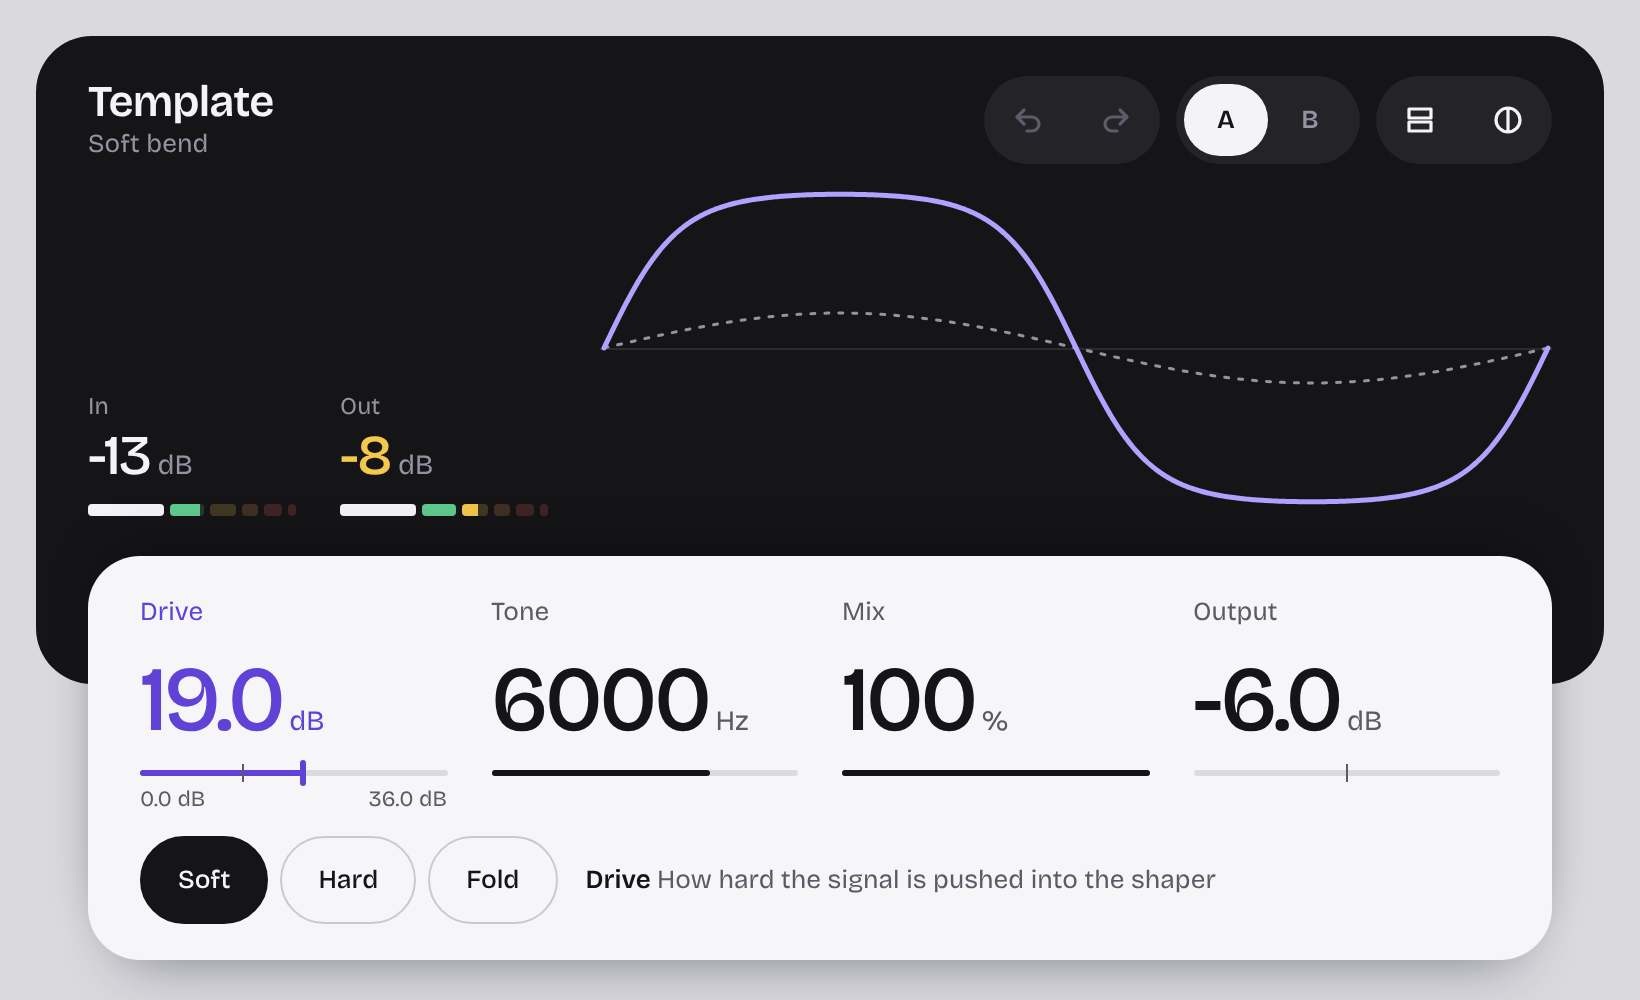
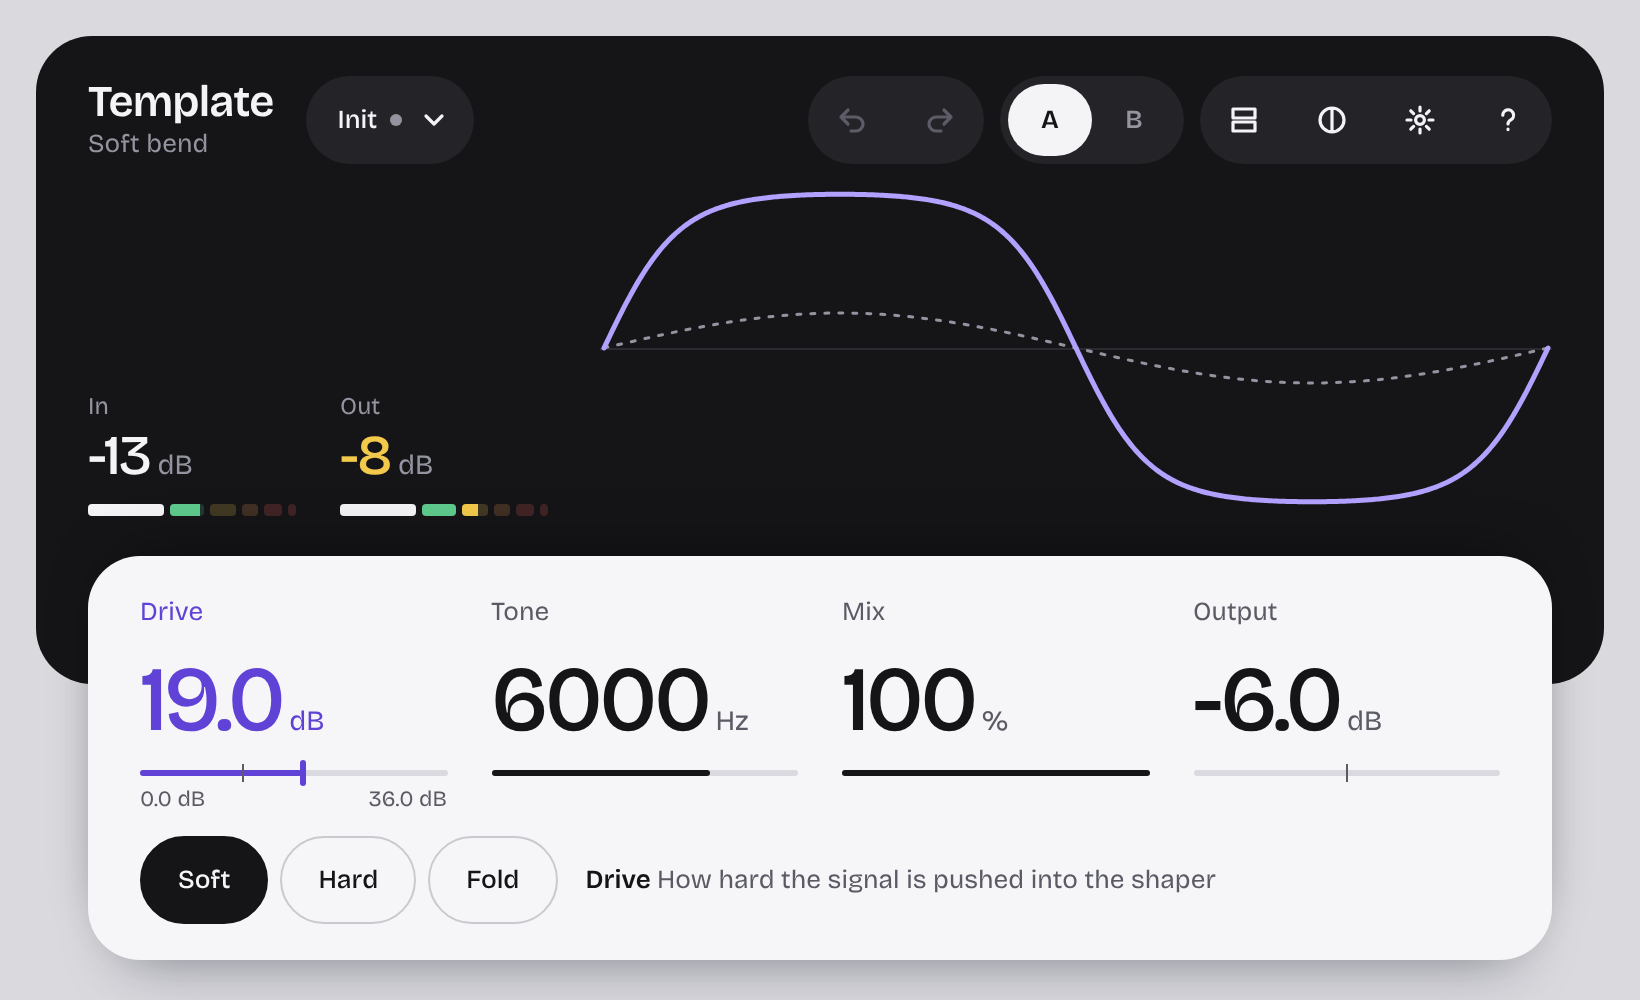
Template: its own presets, and its answer on the seven points
Claude-Session: https://claude.ai/code/session_01LsEv5JJ6sX3X7Qe9Tsco2Y

diff --git a/plugins/template/ui/main.js b/plugins/template/ui/main.js
@@ -61,6 +61,13 @@ const wave = (ui) => (pen) => {
   path(steps(480).map((t) => [2 + t * (width - 4), mid - out(sine(t)) * tall]))
 }
 
+// What it ships with: enough to show what the three bends are for.
+const PRESETS = [
+  { name: 'Warm edge', values: { drive: 9, tone: 4500, mix: 100 } },
+  { name: 'Brick', values: { shape: 'Hard', drive: 24, tone: 9000 } },
+  { name: 'Broken radio', values: { shape: 'Fold', drive: 32, tone: 2400 } }
+]
+
 const BENDS = ['Soft bend', 'Hard clip', 'Folded back']
 
 // The note under the name says which bend is on.
@@ -89,4 +96,4 @@ mount((ui) => [
       value(ui.p.mix, { ui }),
       value(ui.p.output, { ui, bipolar: true })),
     foot(ui, choice(ui.p.shape, { ui })))
-])
+], { presets: PRESETS })

diff --git a/plugins/template/docs/manual.md b/plugins/template/docs/manual.md
@@ -46,13 +46,26 @@ The foot of the sheet says what the control under the pointer does.
 
 ![The controls, with the pointer over Drive](images/controls.png)
 
+Right-click a number for its menu: type a value, return to the
+default, copy, paste, or lock it so a preset leaves it alone. With a
+number selected you can also just start typing digits, and Delete
+puts it back to its default.
+
+Beside the name is the preset that is loaded. Press it to open the
+presets: point at one to hear it, press it to keep it, and **Save as
+new** keeps your own. A dot beside the name means you have changed
+something since.
+
 At the top right, the arrows undo and redo your changes (Ctrl+Z and
 Ctrl+Shift+Z), and **A B** flips between two sets of settings so you
 can hear which is better: B starts as a copy of A. The stacked bars
 step through three densities, Roomy, Regular and Dense, which trade
 the size of the numbers for room on the glass. The split disc switches
-between the dark and the light theme. Both are kept for every plugin
-of ours in the same host.
+between the dark and the light theme. The sun opens the settings
+(theme, density, how long a meter holds its peak, motion, fine drag),
+and the question mark turns help on: the foot of the sheet then also
+says each setting's range and where it rests. All of these are kept
+for every plugin of ours in the same host.
 
 ![Dense: smaller numbers, more glass](images/dense.png)
 
